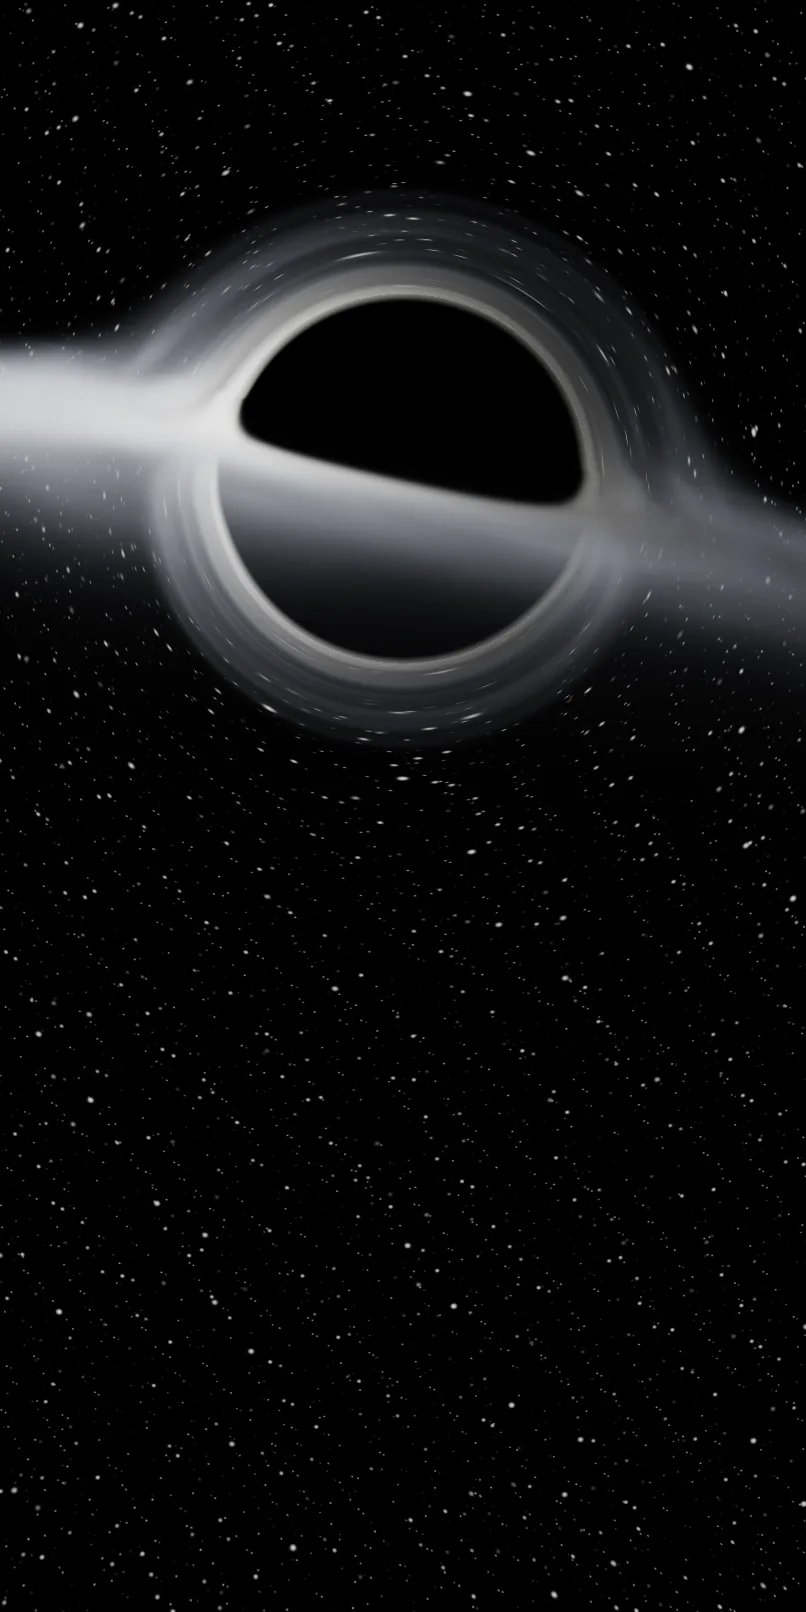
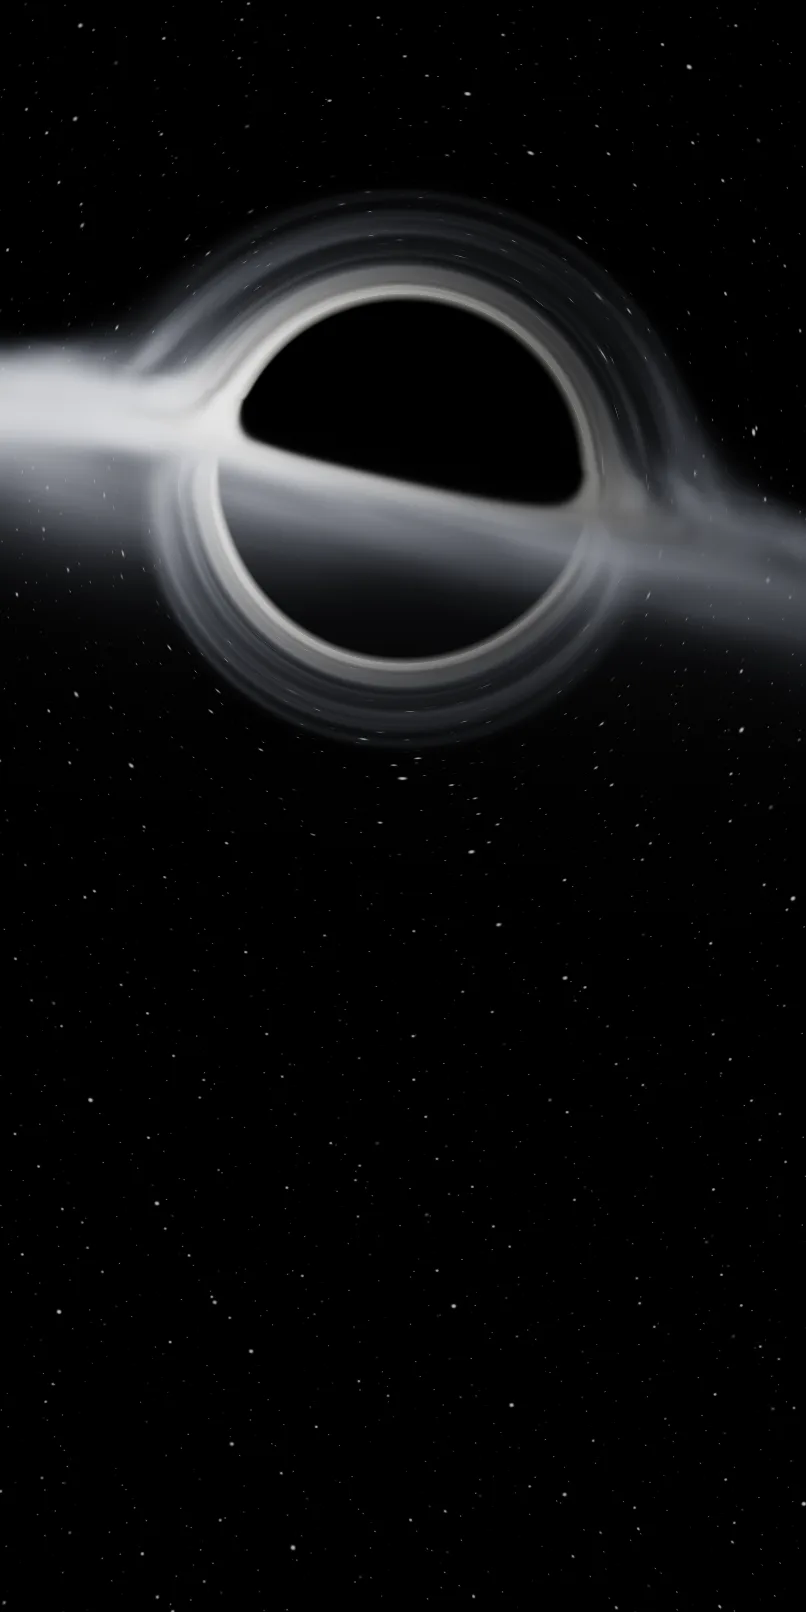
Site: wispier gas and fewer, fainter stars round the black hole
The disk's gas has more contrast, so it breaks into wisps with darker
gaps between them. There are about half as many stars, and they are
smaller and dimmer. New still posters to match.

Changed region(s): [[0.1861, 0.1861, 0.3102, 0.2481], [0.9926, 0.9305, 1.0, 0.9615], [0.3102, 0.1551, 0.3412, 0.1861]]

diff --git a/site/black-hole.js b/site/black-hole.js
@@ -28,8 +28,8 @@
       float f = fract(uT / P), g = fract(uT / P + .5), a1 = a + f * P * spin, a2 = a + g * P * spin;
       float k = abs(2. * f - 1.);   // 1 when copy one restarts: then it's all copy two
       float n = mix(clouds(vec3(cos(a1) * r * .4, sin(a1) * r * .4, r * .7)), clouds(vec3(cos(a2) * r * .4, sin(a2) * r * .4, r * .7) + 19.), k);
-      n = (n - .5) / sqrt(k * k + (1. - k) * (1. - k)) + .5;   // a blend of two is flatter than either: undo that
-      return .25 + 1.6 * n * n;
+      n = clamp((n - .5) * 1.3 / sqrt(k * k + (1. - k) * (1. - k)) + .5, 0., 1.);   // a blend of two is flatter than either: undo that
+      return .15 + 1.9 * n * n;
     }
     // the stars: round dots a pixel or two across, scattered on the six faces of a cube round the sky, three sizes
     float stars(vec3 d){
@@ -43,11 +43,11 @@
         float l = float(L), n = 125. / pow(2.4, l);
         vec2 g = f * n, id = floor(g) + face * 517. + l * 91.;
         float h = hash(id);
-        if (h < .24 - .05 * l) {
+        if (h < .12 - .025 * l) {
           vec2 at = floor(g) + .5 + .3 * (vec2(hash(id + 2.3), hash(id + 5.9)) * 2. - 1.);
-          float r = length(g - at) / n * .8, R = uK * (.8 + .5 * l);
+          float r = length(g - at) / n * .8, R = uK * (.65 + .4 * l);
           float tw = .78 + .22 * sin(uT * (1.2 + 2. * hash(id + 8.1)) + 40. * h);
-          c += (.2 + .8 * pow(hash(id + 3.7), 3.)) * (.5 + .45 * l) * tw * exp(-sq(r / R));
+          c += (.2 + .8 * pow(hash(id + 3.7), 3.)) * (.35 + .35 * l) * tw * exp(-sq(r / R));
         }
       }
       return c;
